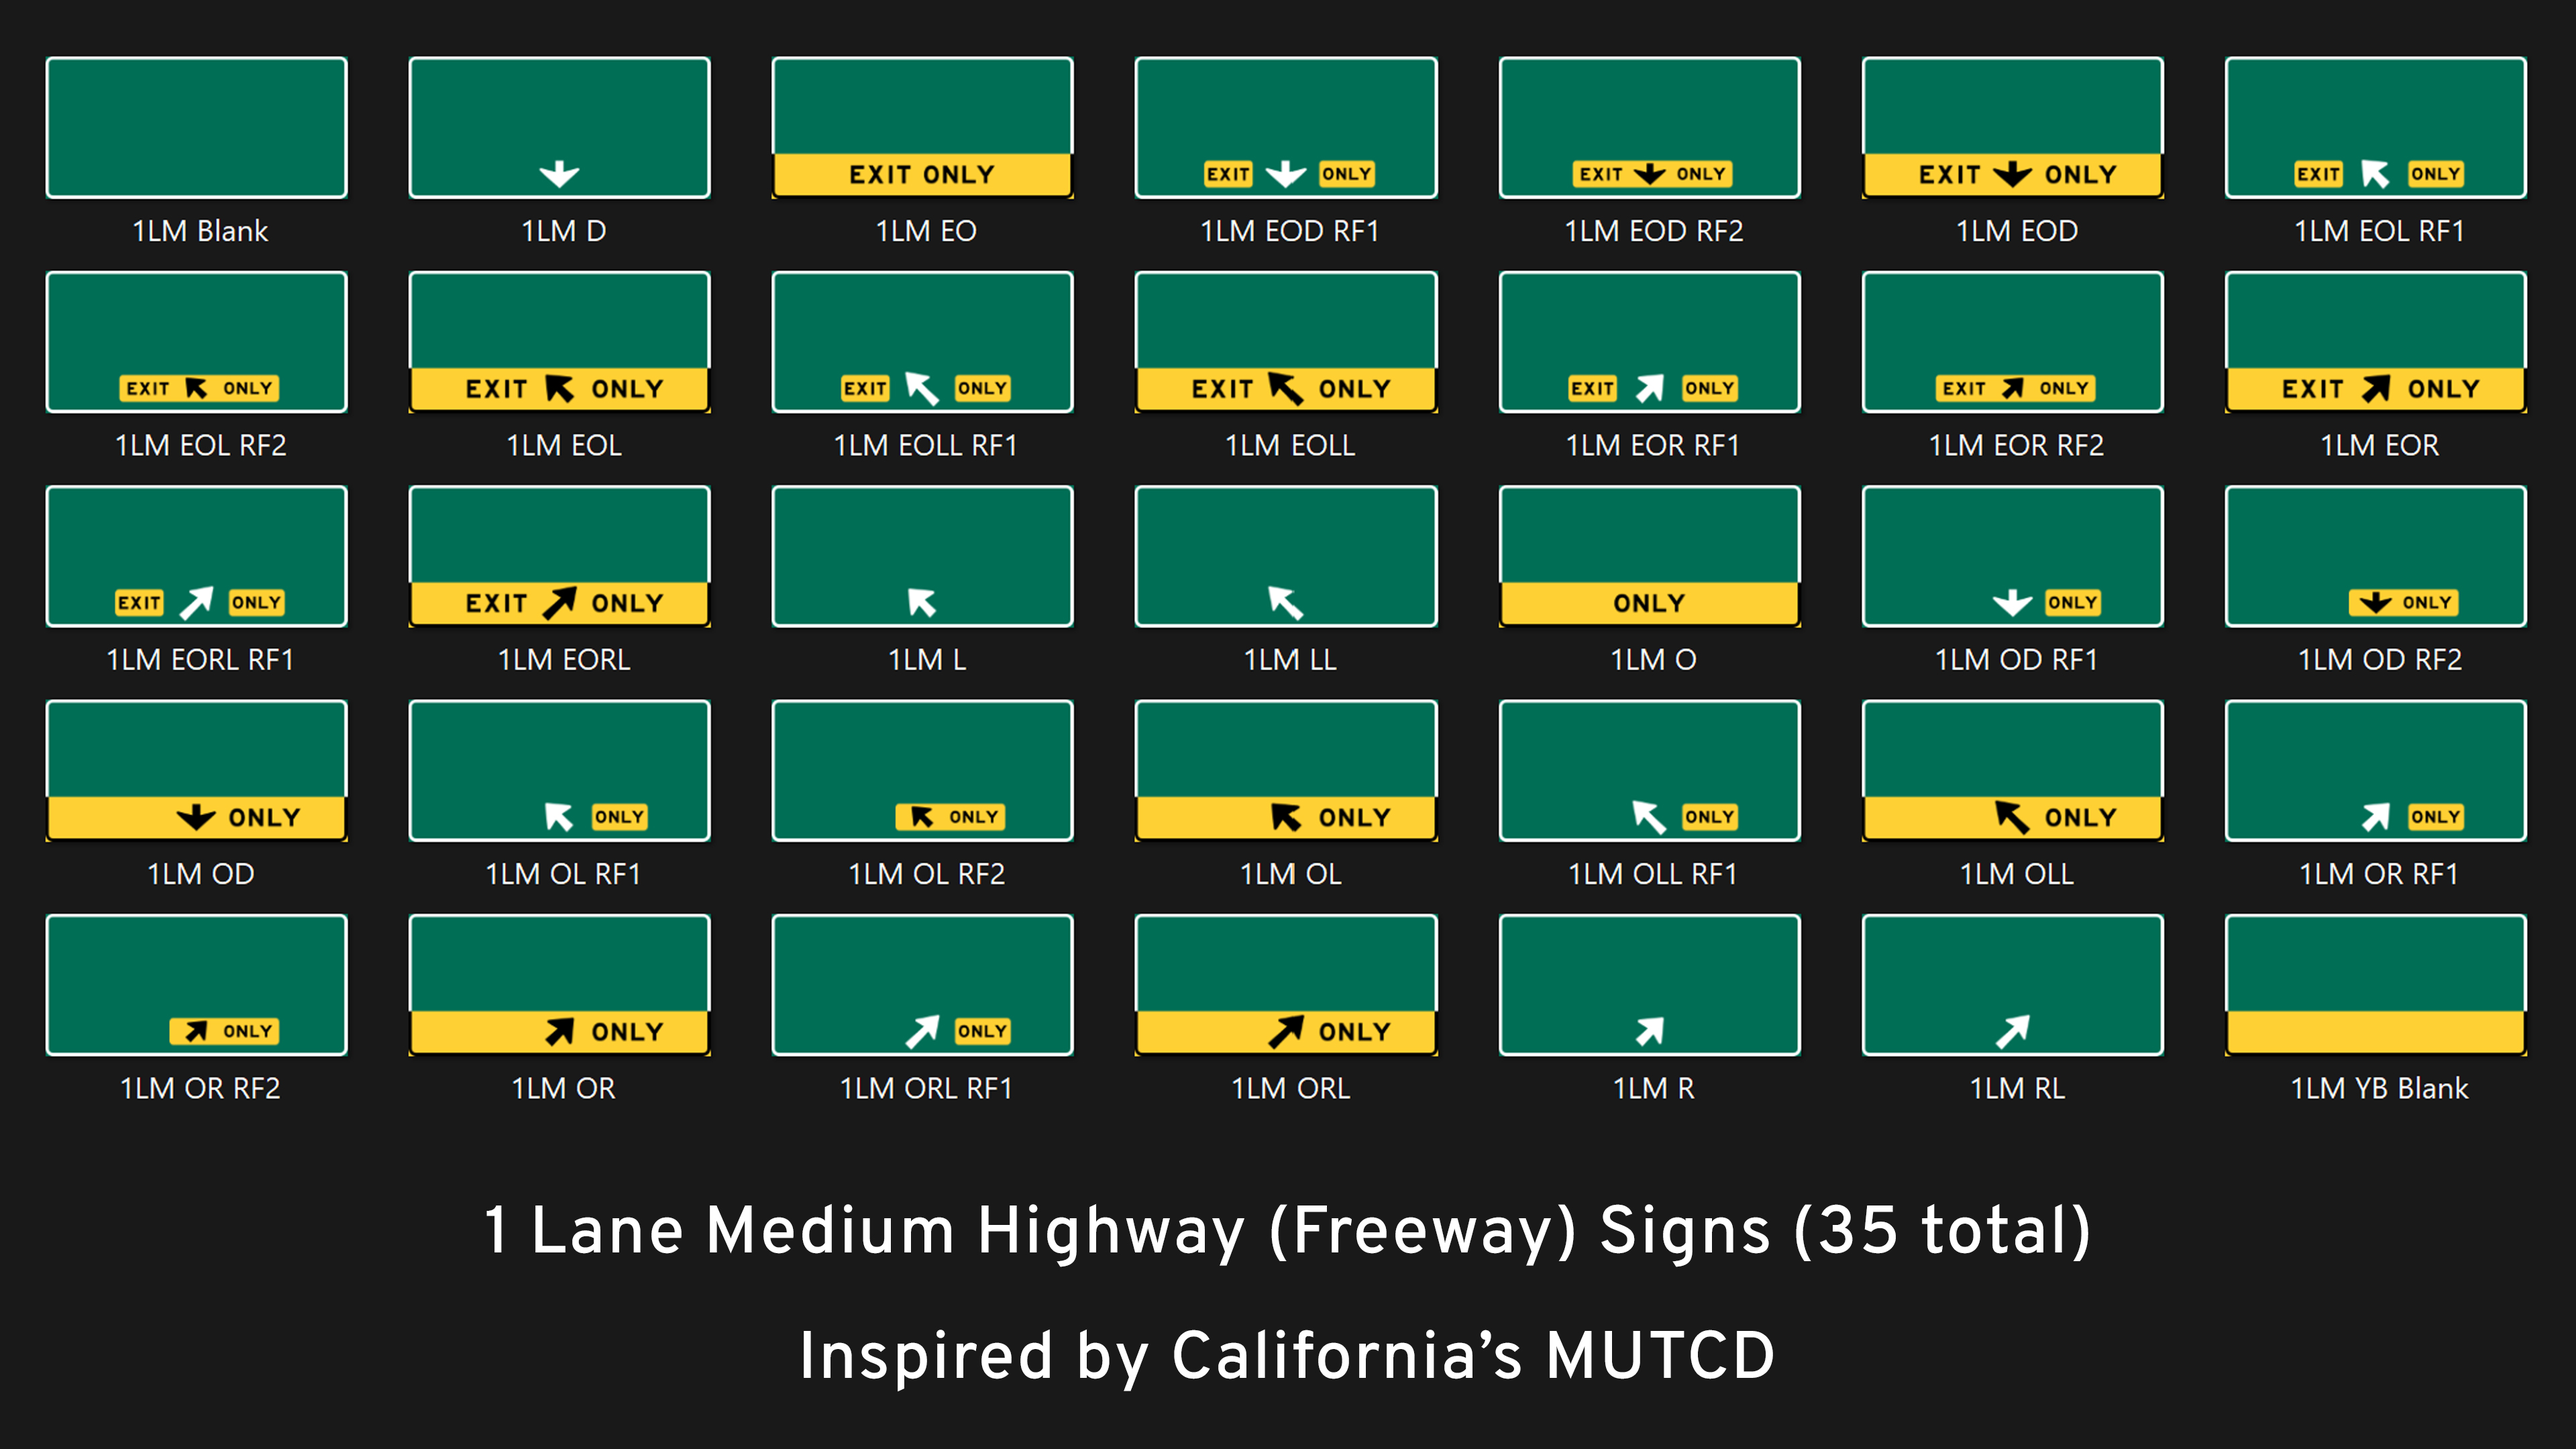
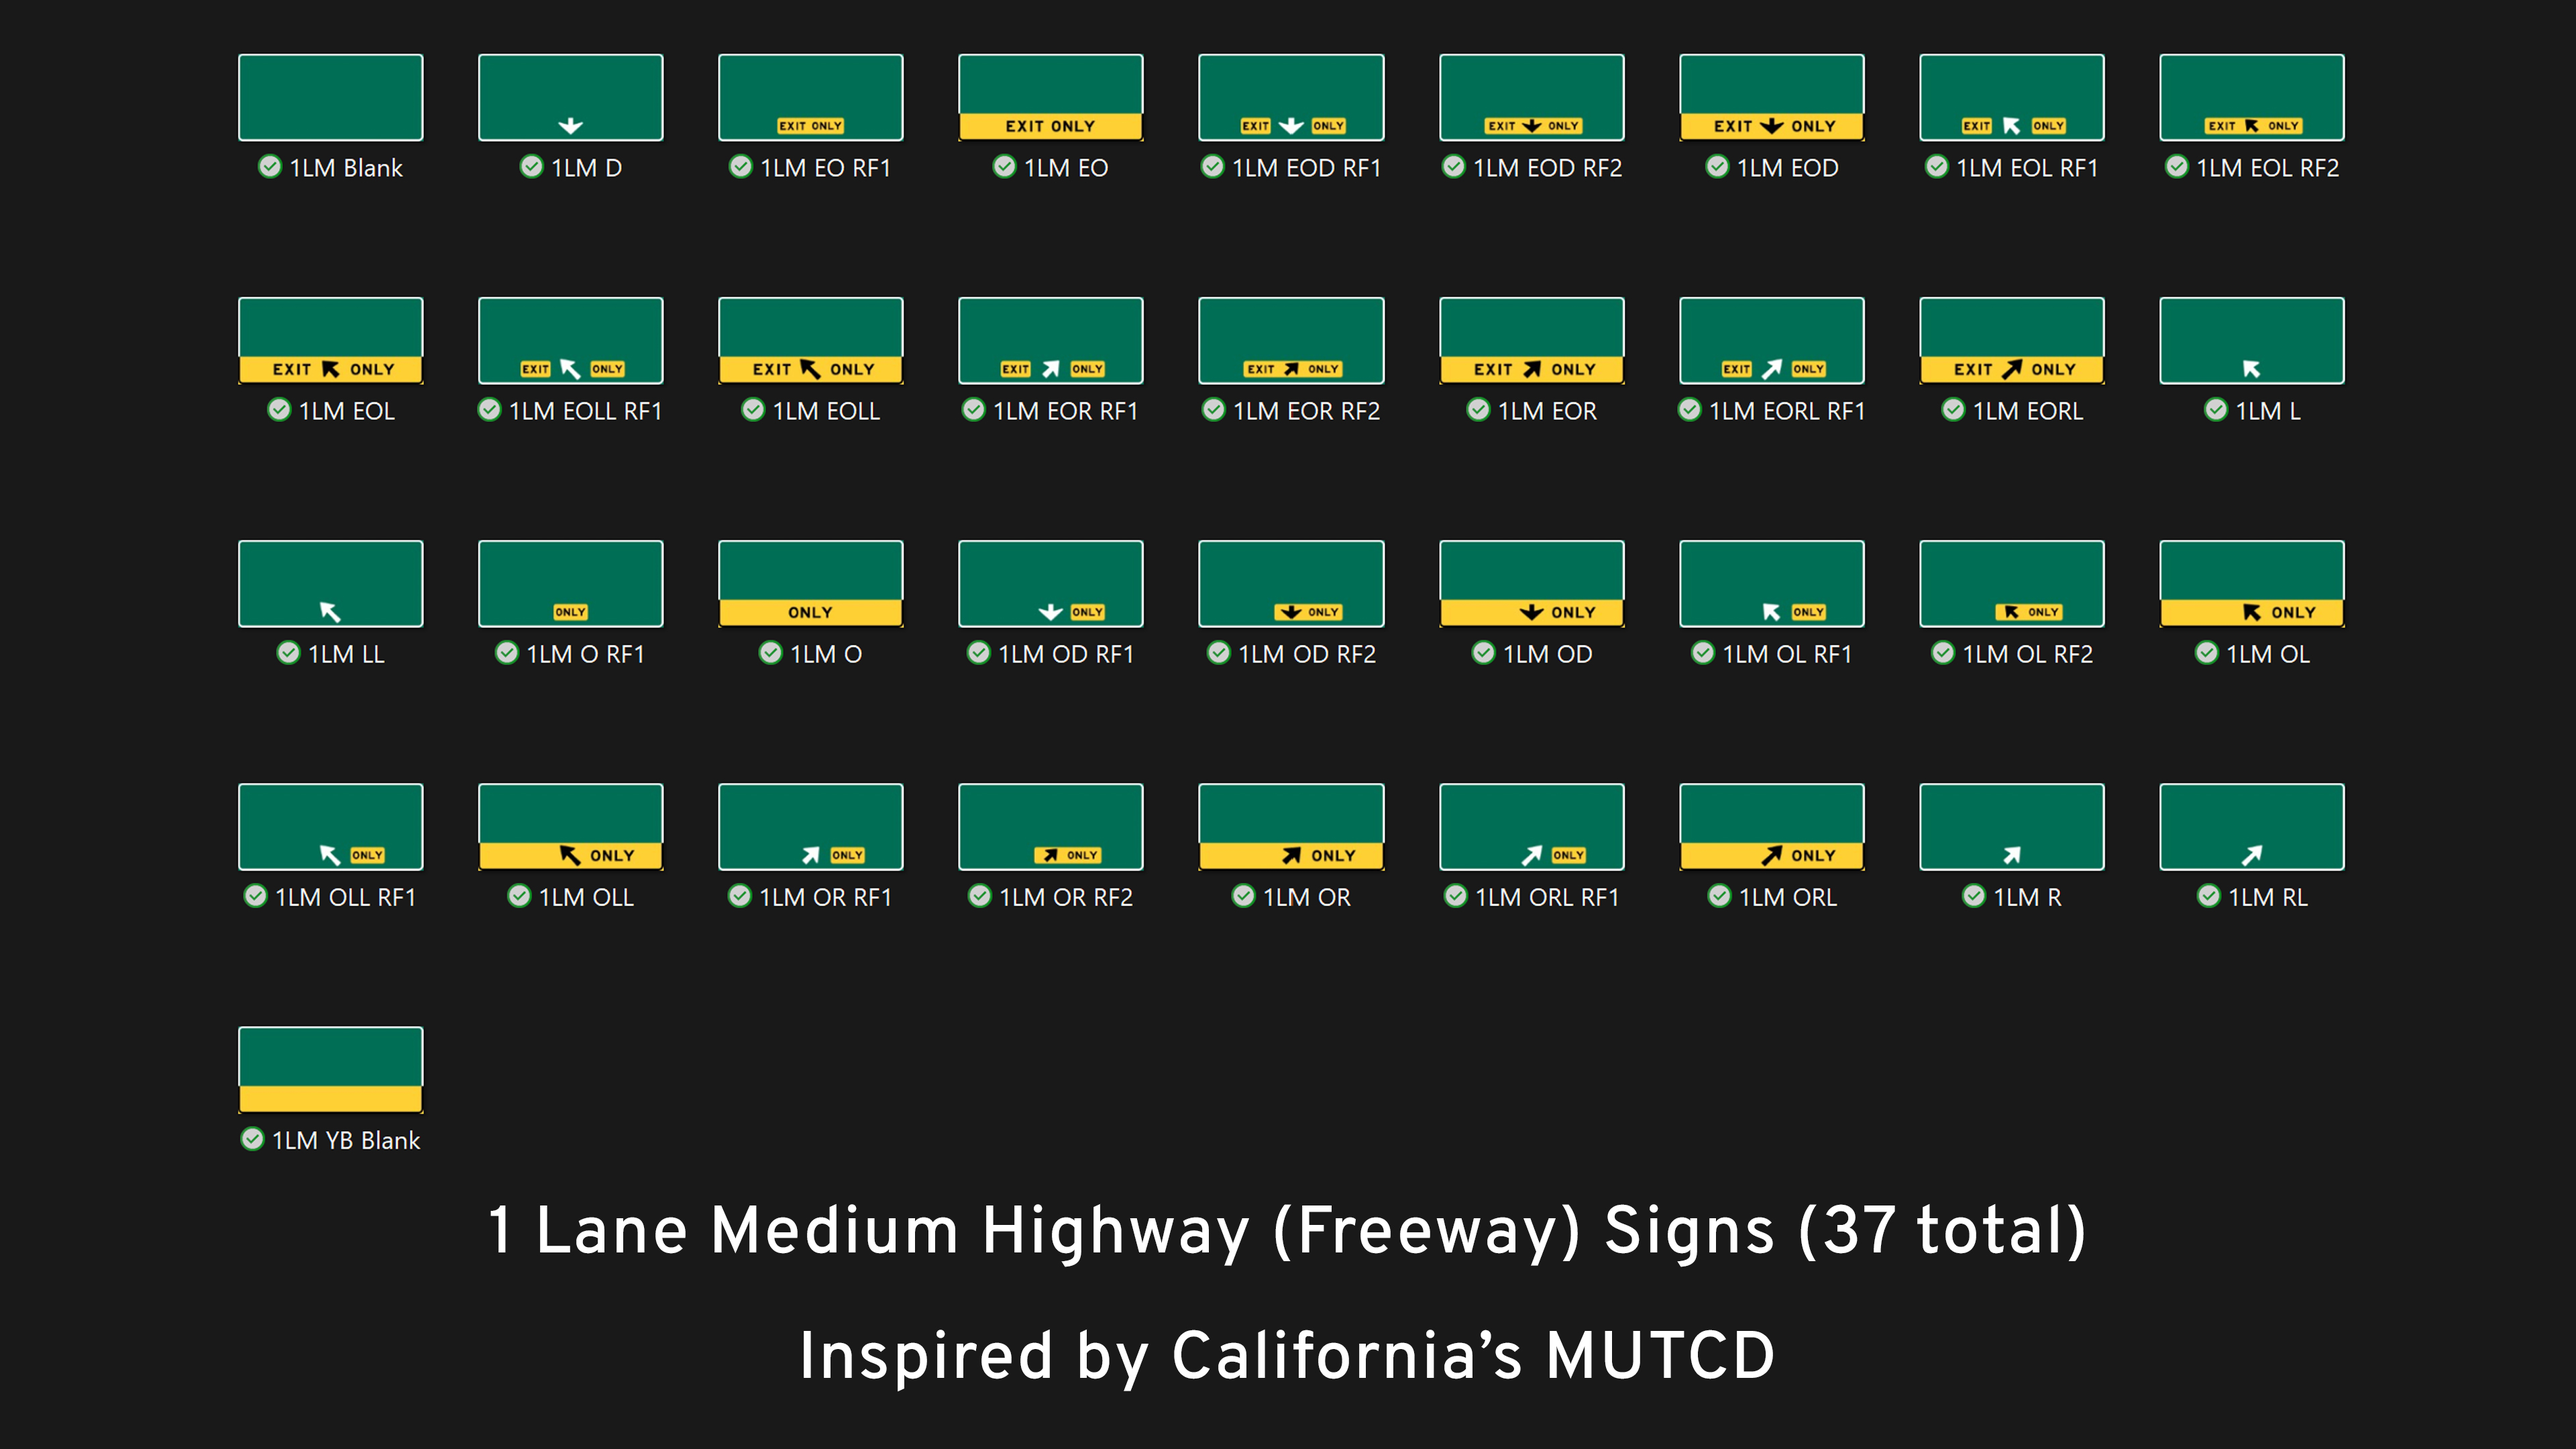
Added missing signs

diff --git a/_BaseModule/README.md b/_BaseModule/README.md
@@ -5,7 +5,7 @@ Hello Cities: Skylines II civil engineers! This is a **Write Everywhere Module**
 ## Features
 
 - 1 Lane (Medium) California Highway (Freeway) signs inspired by California's MUTCD
-- 35 total signs (see screenshots)
+- 37 total signs (see screenshots)
 - WE Layout included for easy implementation onto your highways (freeways)
 
 ## How to Use

diff --git a/_BaseModule/changelog.md b/_BaseModule/changelog.md
@@ -1,1 +1,2 @@
-# Changelog
+# v1.0.1
+- Added missing 1LM EO RF1 and 1LM O RF1 signs.
